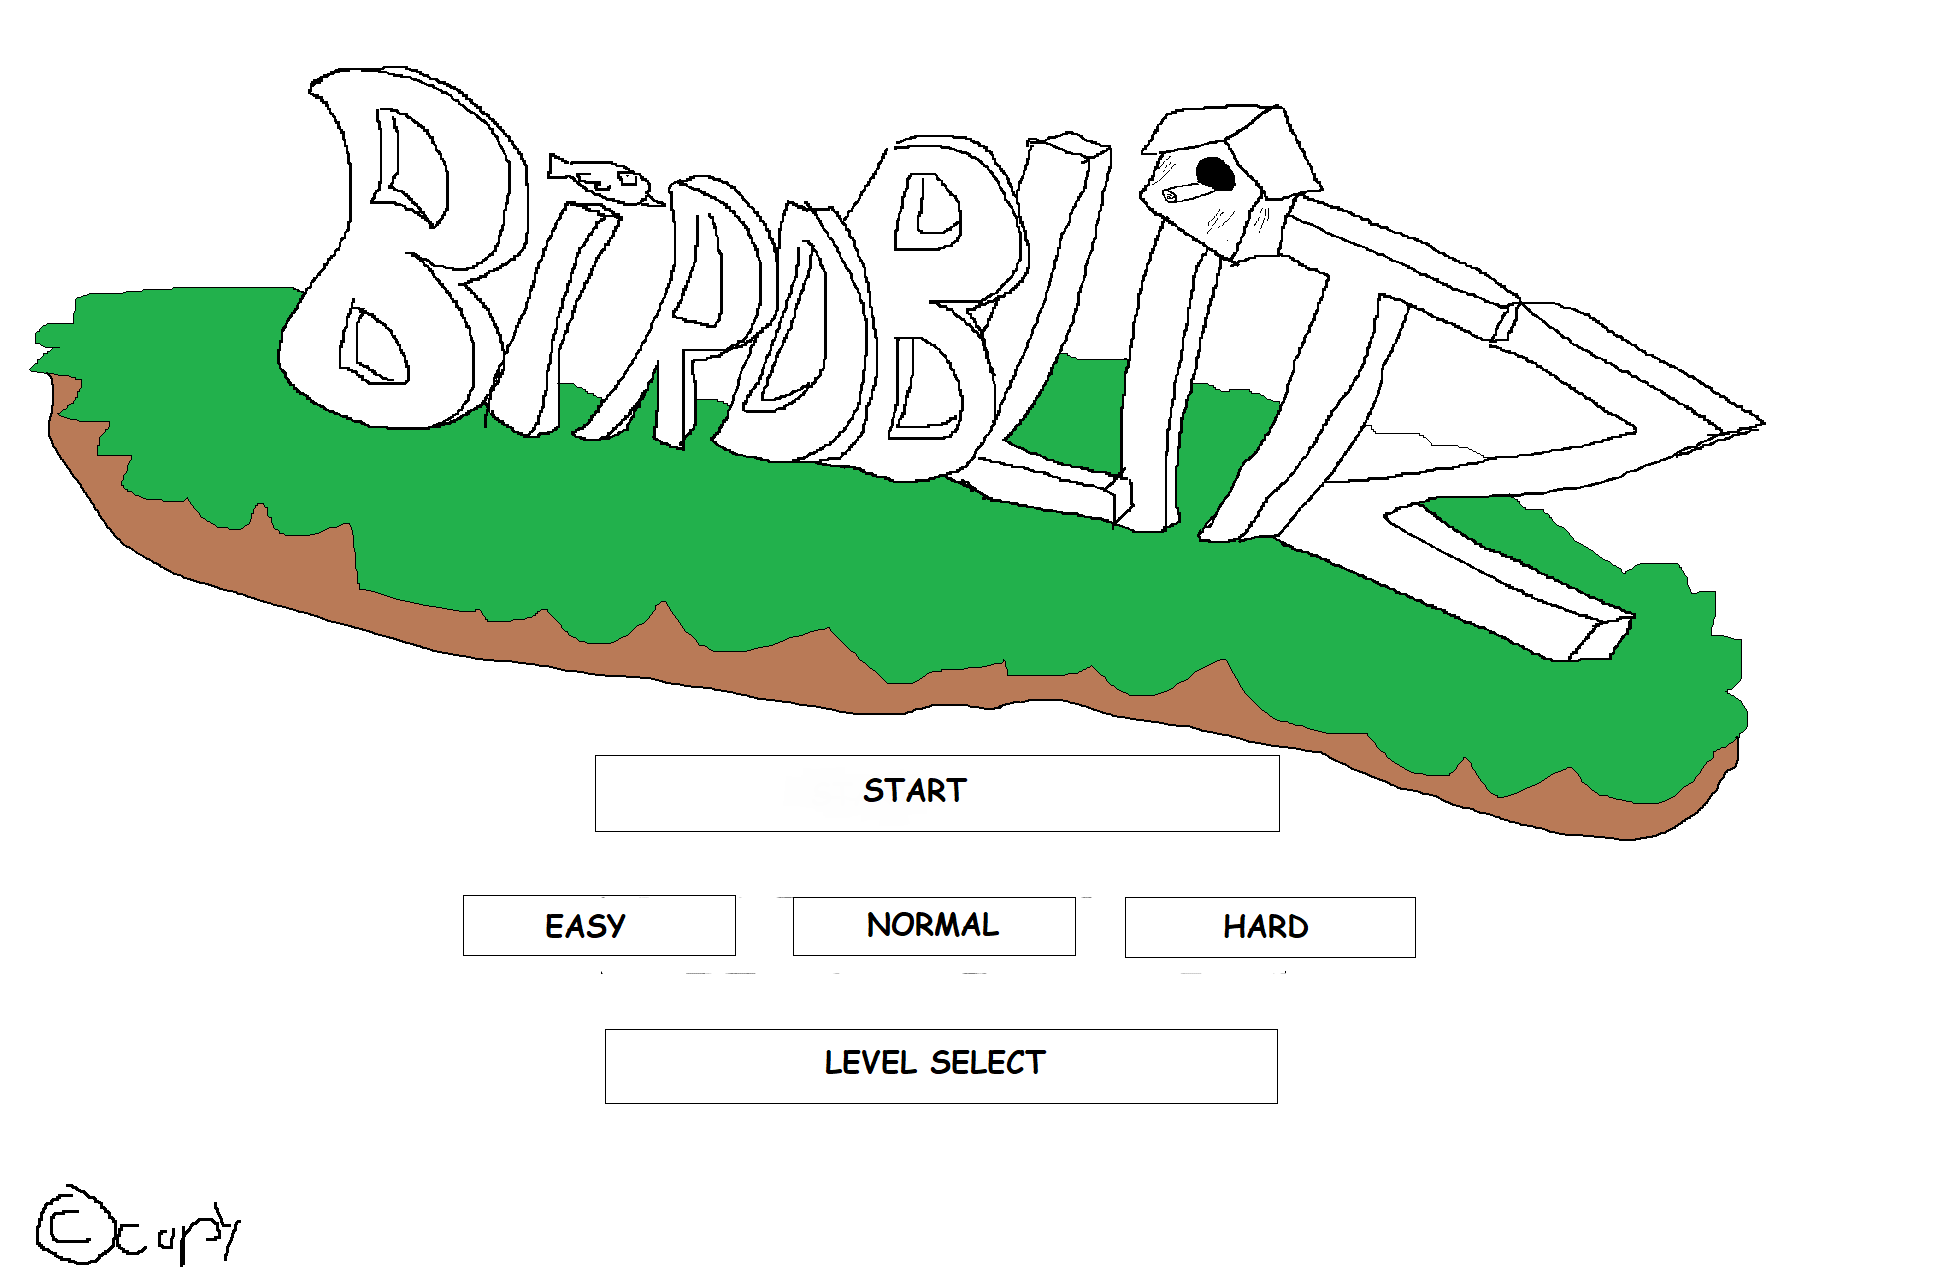
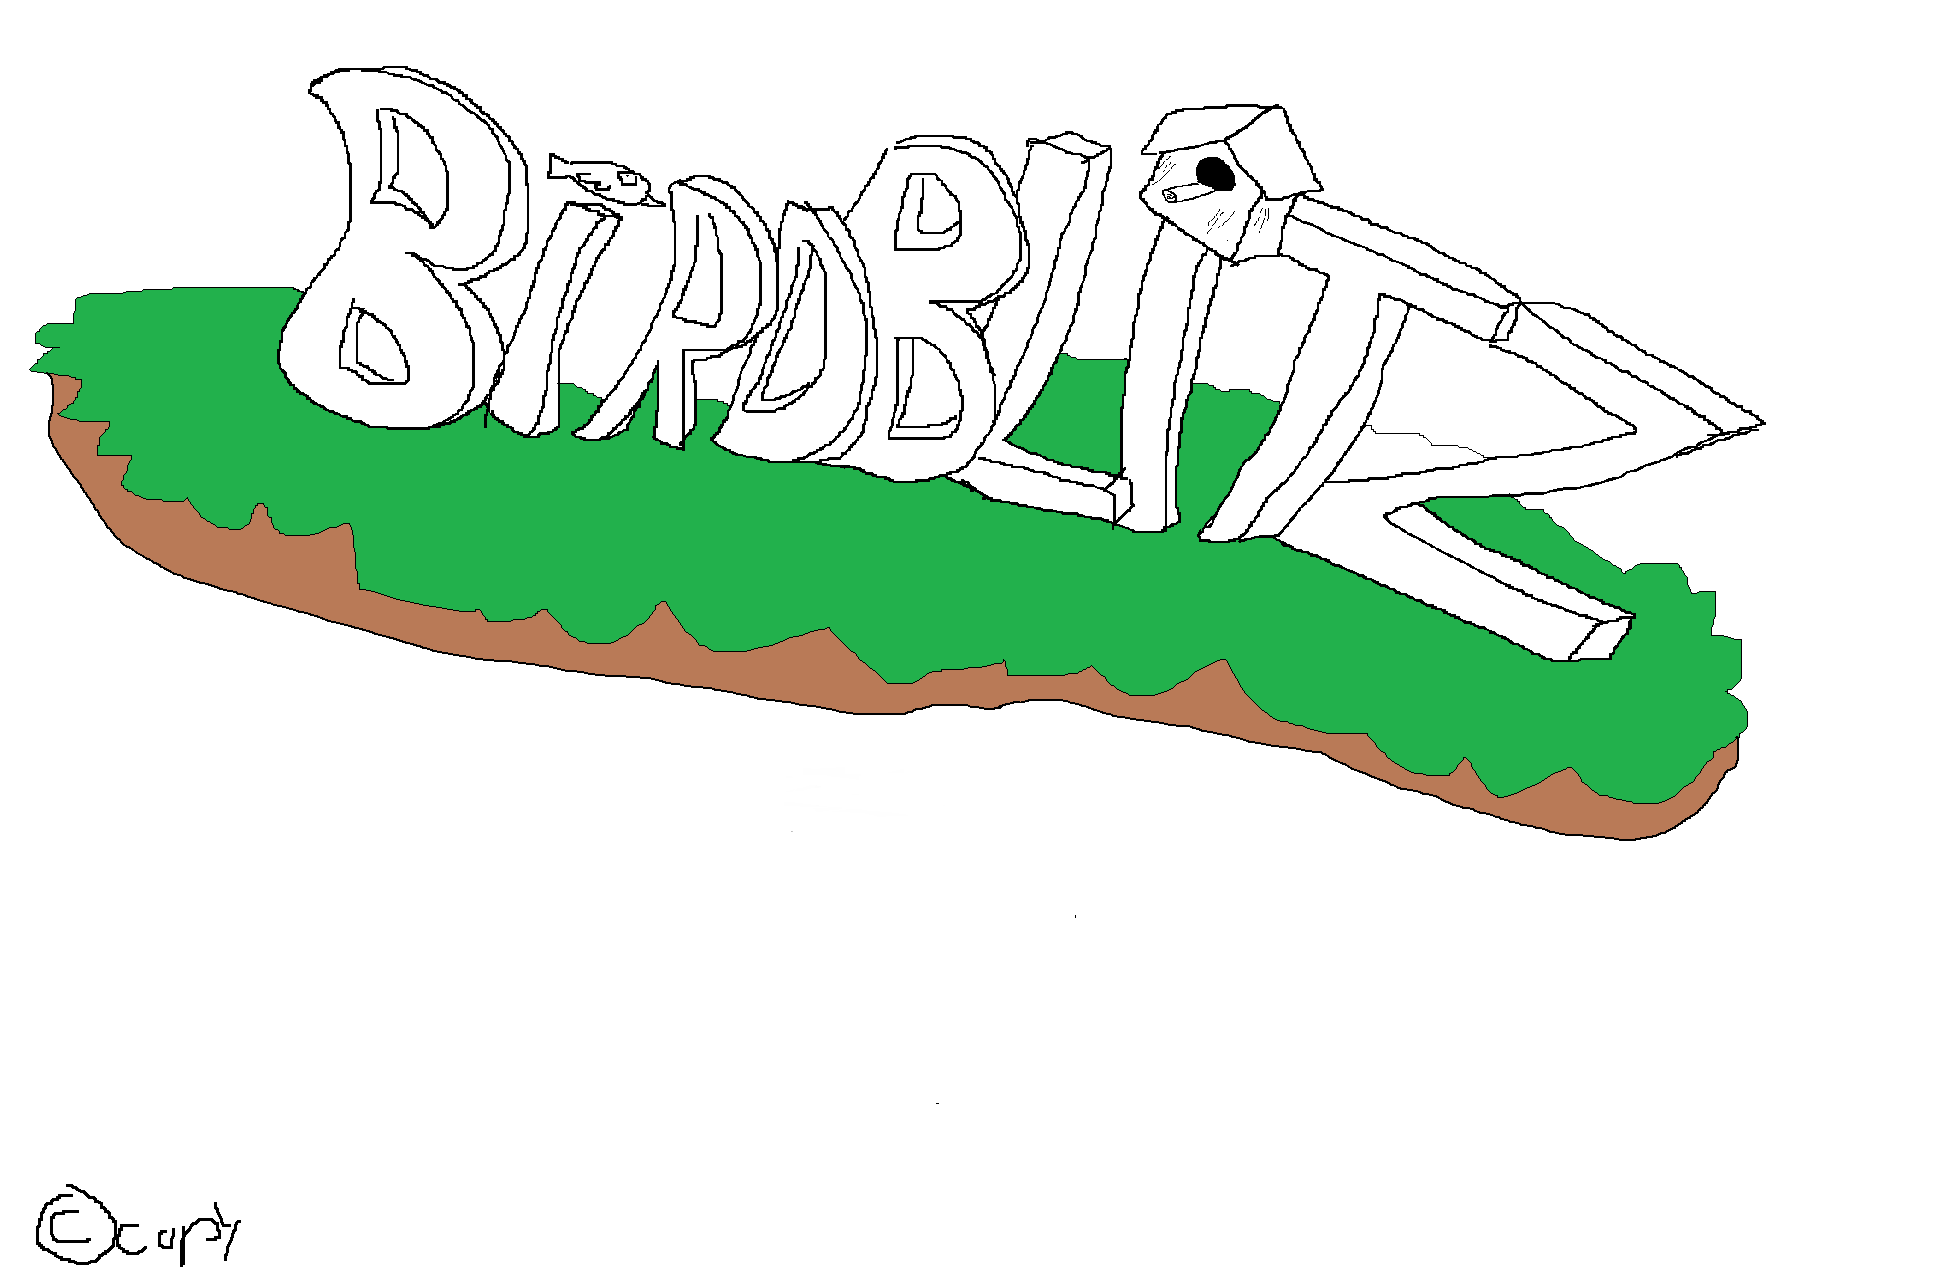
v2
Startscherm

diff --git a/src/main/java/nl/han/showcase/Birdblitz/buttons/Startknop.java b/src/main/java/nl/han/showcase/Birdblitz/buttons/Startknop.java
@@ -1,0 +1,30 @@
+package nl.han.showcase.Birdblitz.buttons;
+
+import com.github.hanyaeger.api.Coordinate2D;
+import com.github.hanyaeger.api.entities.impl.TextEntity;
+import com.github.hanyaeger.api.userinput.MouseButtonPressedListener;
+import javafx.scene.input.MouseButton;
+import javafx.scene.paint.Color;
+import javafx.scene.text.Font;
+import javafx.scene.text.FontWeight;
+import nl.han.showcase.Birdblitz.Birdblitz;
+
+public class Startknop extends TextEntity implements MouseButtonPressedListener {
+
+    private Birdblitz birdblitz;
+
+    public Startknop(Coordinate2D initialLocation, Birdblitz birdblitz) {
+        super(initialLocation, "Start spel");
+        this.birdblitz = birdblitz;
+        setFill(Color.BLACK);
+        setFont(Font.font("Roboto", FontWeight.BOLD, 30));
+    }
+
+    @Override
+    public void onMouseButtonPressed(MouseButton button, Coordinate2D coordinate2d) {
+        birdblitz.setActiveScene(1);
+
+    }
+
+}
+

diff --git a/src/main/java/nl/han/showcase/Birdblitz/scenes/StartScherm.java b/src/main/java/nl/han/showcase/Birdblitz/scenes/StartScherm.java
@@ -1,0 +1,29 @@
+package nl.han.showcase.Birdblitz.scenes;
+
+import com.github.hanyaeger.api.AnchorPoint;
+import com.github.hanyaeger.api.Coordinate2D;
+import com.github.hanyaeger.api.scenes.StaticScene;
+import nl.han.showcase.Birdblitz.Birdblitz;
+import nl.han.showcase.Birdblitz.buttons.*;
+
+
+public class StartScherm extends StaticScene {
+    private Birdblitz birdblitz;
+
+    public StartScherm(Birdblitz birdblitz) {
+        this.birdblitz = birdblitz;
+    }
+
+    @Override
+    public void setupScene() {
+        setBackgroundImage("backgrounds/StartScherm.png");
+
+    }
+
+    @Override
+    public void setupEntities() {
+        var BirdblitzStartknop = new Startknop(new Coordinate2D(getWidth() / 2, getHeight() / 2 + 80), birdblitz);
+        BirdblitzStartknop.setAnchorPoint(AnchorPoint.CENTER_CENTER);
+        addEntity(BirdblitzStartknop);
+    }
+}

diff --git a/src/main/java/nl/han/showcase/Birdblitz/Birdblitz.java b/src/main/java/nl/han/showcase/Birdblitz/Birdblitz.java
@@ -2,7 +2,7 @@ package nl.han.showcase.Birdblitz;
 
 import com.github.hanyaeger.api.Size;
 import com.github.hanyaeger.api.YaegerGame;
-import nl.han.showcase.Birdblitz.scenes.Startscherm;
+import nl.han.showcase.Birdblitz.scenes.StartScherm;
 
 
 public class Birdblitz extends YaegerGame {
@@ -10,11 +10,11 @@ public class Birdblitz extends YaegerGame {
     @Override
     public void setupGame() {
         setGameTitle("Birdblitz");
-        setSize(new Size(1000, 1000));
+        setSize(new Size(800, 800));
     }
 
     @Override
     public void setupScenes() {
-       addScene(0, new Startscherm(this));
+       addScene(0, new StartScherm(this));
     }
 }

diff --git a/src/main/java/nl/han/showcase/Birdblitz/tegenstanders/TegenstanderInterface.java b/src/main/java/nl/han/showcase/Birdblitz/tegenstanders/TegenstanderInterface.java
@@ -1,0 +1,17 @@
+package nl.han.showcase.Birdblitz.tegenstanders;
+
+import com.github.hanyaeger.api.UpdateExposer;
+import com.github.hanyaeger.api.entities.Collided;
+import com.github.hanyaeger.api.entities.Collider;
+import com.github.hanyaeger.api.entities.SceneBorderCrossingWatcher;
+import com.github.hanyaeger.api.scenes.SceneBorder;
+
+public interface TegenstanderInterface extends Collided, Collider, SceneBorderCrossingWatcher, UpdateExposer {
+
+        void notifyBoundaryCrossing(SceneBorder border);
+
+        void explicitUpdate(long timestamp);
+
+        void Beweeg();
+
+    }
